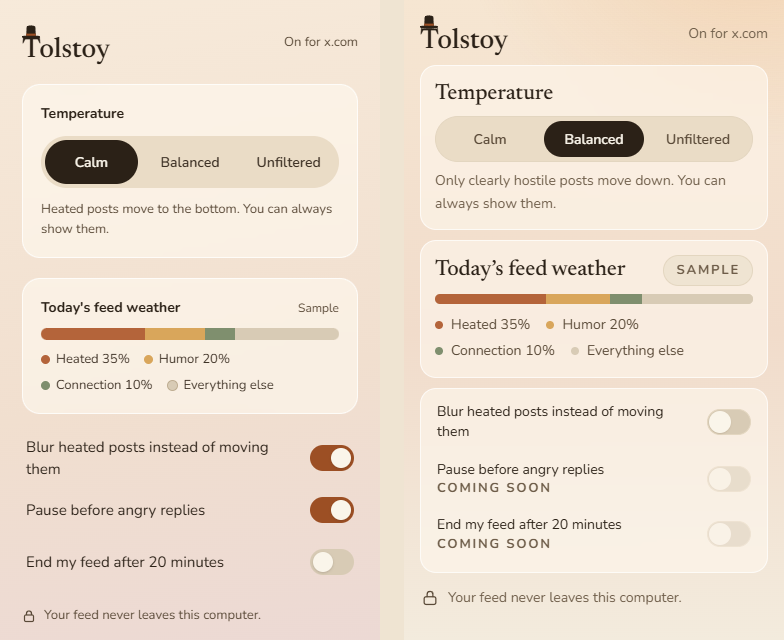
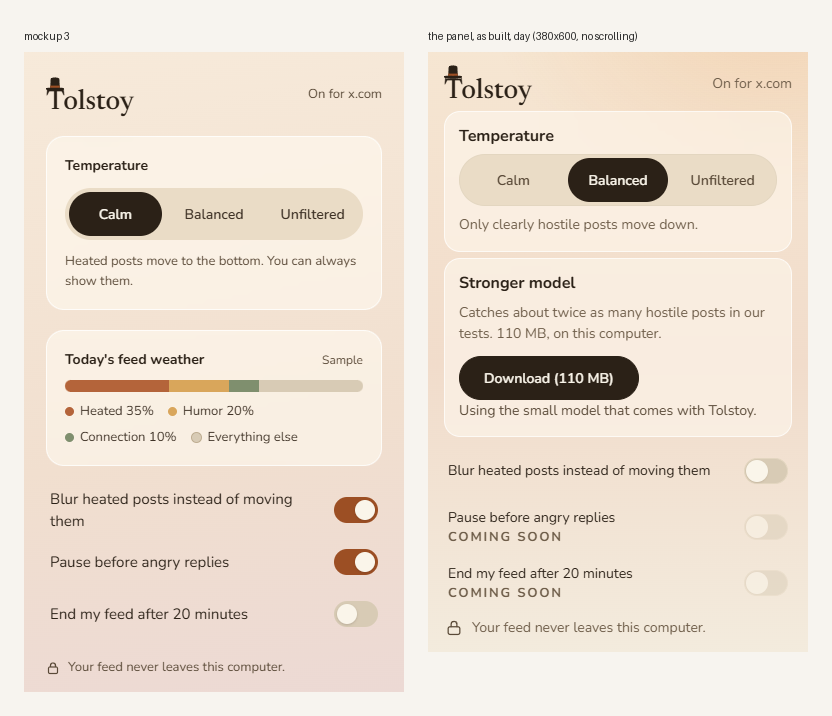
Task 6 Part C: the panel fits 380 x 600
Chrome caps an extension popup at 600px tall, so 640 was never reachable and the panel was
asking for a scrollbar by itself. Three things were wrong and only the last was the card:

- body { min-height: 640px } is 600 now, which is the cap.
- The "Today's feed weather" card holds sample numbers, and a popup that scrolls to show
  placeholders is worse than one that does not. It hides itself when there is not room for
  it (under 700px of viewport), which is the popup case, and comes back by itself when the
  panel is opened as its own tab. The markup and the styles stay, so real numbers can
  bring it back with no new code.
- What was left was 60px of content over the cap, taken from the copy and the spacing, and
  every change says in the file what it cost and why: one line of help text per
  temperature setting, the model card's two lines, a 6px card gap, 6px of toggle row
  padding instead of 9, and no top margin on the footer. The 44px targets are untouched
  and the design system's tokens, sizes, radii and contrast are unchanged.
- The model card now says what the stronger model buys, in the measured words: "Catches
  about twice as many hostile posts in our tests. 110 MB, on this computer."

Measured in both themes at 380 x 600: scrollHeight 600, clientHeight 600, nothing to
scroll. Screenshots at docs/screenshots/panel-popup-day.png and panel-popup-night.png, and
a fresh comparison against mockup 3 at compare-panel-day.png and compare-panel-night.png,
[…]

diff --git a/extension/panel/panel.js b/extension/panel/panel.js
@@ -13,8 +13,11 @@
   var DEFAULTS = { temperature: "balanced", blur: false };
 
   var HELP_TEXT = {
-    calm: "Heated posts move to the bottom. You can always show them.",
-    balanced: "Only clearly hostile posts move down. You can always show them.",
+    // One line each, deliberately. The popup is capped at 600px tall by Chrome and this
+    // card's second line was costing 23px of it; the promise these make is the same in
+    // a line as in two.
+    calm: "Heated posts move to the bottom.",
+    balanced: "Only clearly hostile posts move down.",
     unfiltered: "Tolstoy only counts. Nothing is moved."
   };
 
@@ -139,8 +142,8 @@
   // rules only" when the model could not be loaded. The rules always keep
   // working, whatever this card says.
 
-  var MODEL_OFFER = "A stronger model catches more hostile posts than the small one that comes with Tolstoy. It is 110 MB and runs on this computer.";
-  var MODEL_READY = "The stronger model is on this computer, and it is the one in use.";
+  var MODEL_OFFER = "Catches about twice as many hostile posts in our tests. 110 MB, on this computer.";
+  var MODEL_READY = "On this computer, and it is the one in use.";
   var MODEL_SMALL = "Using the small model that comes with Tolstoy.";
   var MODEL_SIZE = 110 * 1024 * 1024;
   var model = { status: "absent", bytes: 0, files: 0, active: "bundled" };
@@ -148,6 +151,24 @@
   function el(id) {
     return document.getElementById(id);
   }
+
+  // The "Today's feed weather" card holds sample numbers, not real ones, and a popup
+  // that has to scroll to show placeholders is worse than one that does not. It is
+  // hidden whenever there is not room for it, which is the popup case, and shows itself
+  // again when the panel is opened as its own tab. The markup and the styles stay, so
+  // real numbers can bring it back by doing nothing at all.
+  function fitWeather() {
+    var card = document.querySelector(".weather-card");
+    if (!card) {
+      return;
+    }
+    // 700 rather than 600: a popup at its cap leaves no room for this card, and a tab
+    // at 700 or more has room for it and the rest.
+    card.hidden = document.documentElement.clientHeight < 700;
+  }
+
+  window.addEventListener("resize", fitWeather);
+  fitWeather();
 
   function humanMb(bytes) {
     return Math.max(0, Math.round(bytes / (1024 * 1024)));

diff --git a/extension/panel/panel.css b/extension/panel/panel.css
@@ -5,7 +5,11 @@
 body {
   margin: 0;
   width: 380px;
-  min-height: 640px;
+  /* Chrome caps an extension popup at 600px tall, so asking for 640 was asking for a
+     scrollbar: the popup could never be that tall, and everything past 600 scrolled.
+     The panel is laid out to fit this, and when the same page is opened as its own tab
+     it simply has room to spare. */
+  min-height: 600px;
   background: var(--ground);
   color: var(--ink);
   font-family: var(--font-interface);
@@ -25,8 +29,10 @@ body {
 .panel {
   display: flex;
   flex-direction: column;
-  gap: 8px;
-  padding: 14px 16px;
+  /* Every pixel here is a pixel of a popup that Chrome will not let past 600px tall.
+     These were 8 and 14 until the panel had to hold four cards and no scrollbar. */
+  gap: 6px;
+  padding: 12px 16px;
 }
 
 /* Chrome caps a popup at 600px tall, so the cards use the smaller padding step
@@ -255,7 +261,7 @@ body {
 /* Part D: the toggles sit directly on the ombre, with no card behind them, as
    mockup 3 shows. */
 .toggles {
-  padding: 2px 4px 4px;
+  padding: 0 4px;
 }
 
 .toggle-row {
@@ -263,7 +269,10 @@ body {
   align-items: center;
   justify-content: space-between;
   gap: 16px;
-  padding: 9px 0;
+  /* Was 9. The switch inside is 44px tall on its own, so the target this row has to
+     offer is unchanged; what the padding was buying was air, and the popup needs the
+     height more. */
+  padding: 6px 0;
 }
 
 .toggle-label {
@@ -284,7 +293,7 @@ body {
 }
 
 .panel-footer {
-  margin-top: 4px;
+  margin-top: 0;
 }
 
 .panel-footer .trust-line {

diff --git a/extension/panel/panel.html b/extension/panel/panel.html
@@ -29,7 +29,7 @@
 
     <section class="glass-panel card-body model-card" aria-labelledby="model-heading">
       <h2 class="panel-heading" id="model-heading">Stronger model</h2>
-      <p class="meta model-text" id="model-text">A stronger model catches more hostile posts than the small one that comes with Tolstoy. It is 110 MB and runs on this computer.</p>
+      <p class="meta model-text" id="model-text">Catches about twice as many hostile posts in our tests. 110 MB, on this computer.</p>
 
       <div class="model-actions" id="model-actions">
         <button class="btn btn-primary" id="model-download" type="button">Download (110 MB)</button>
